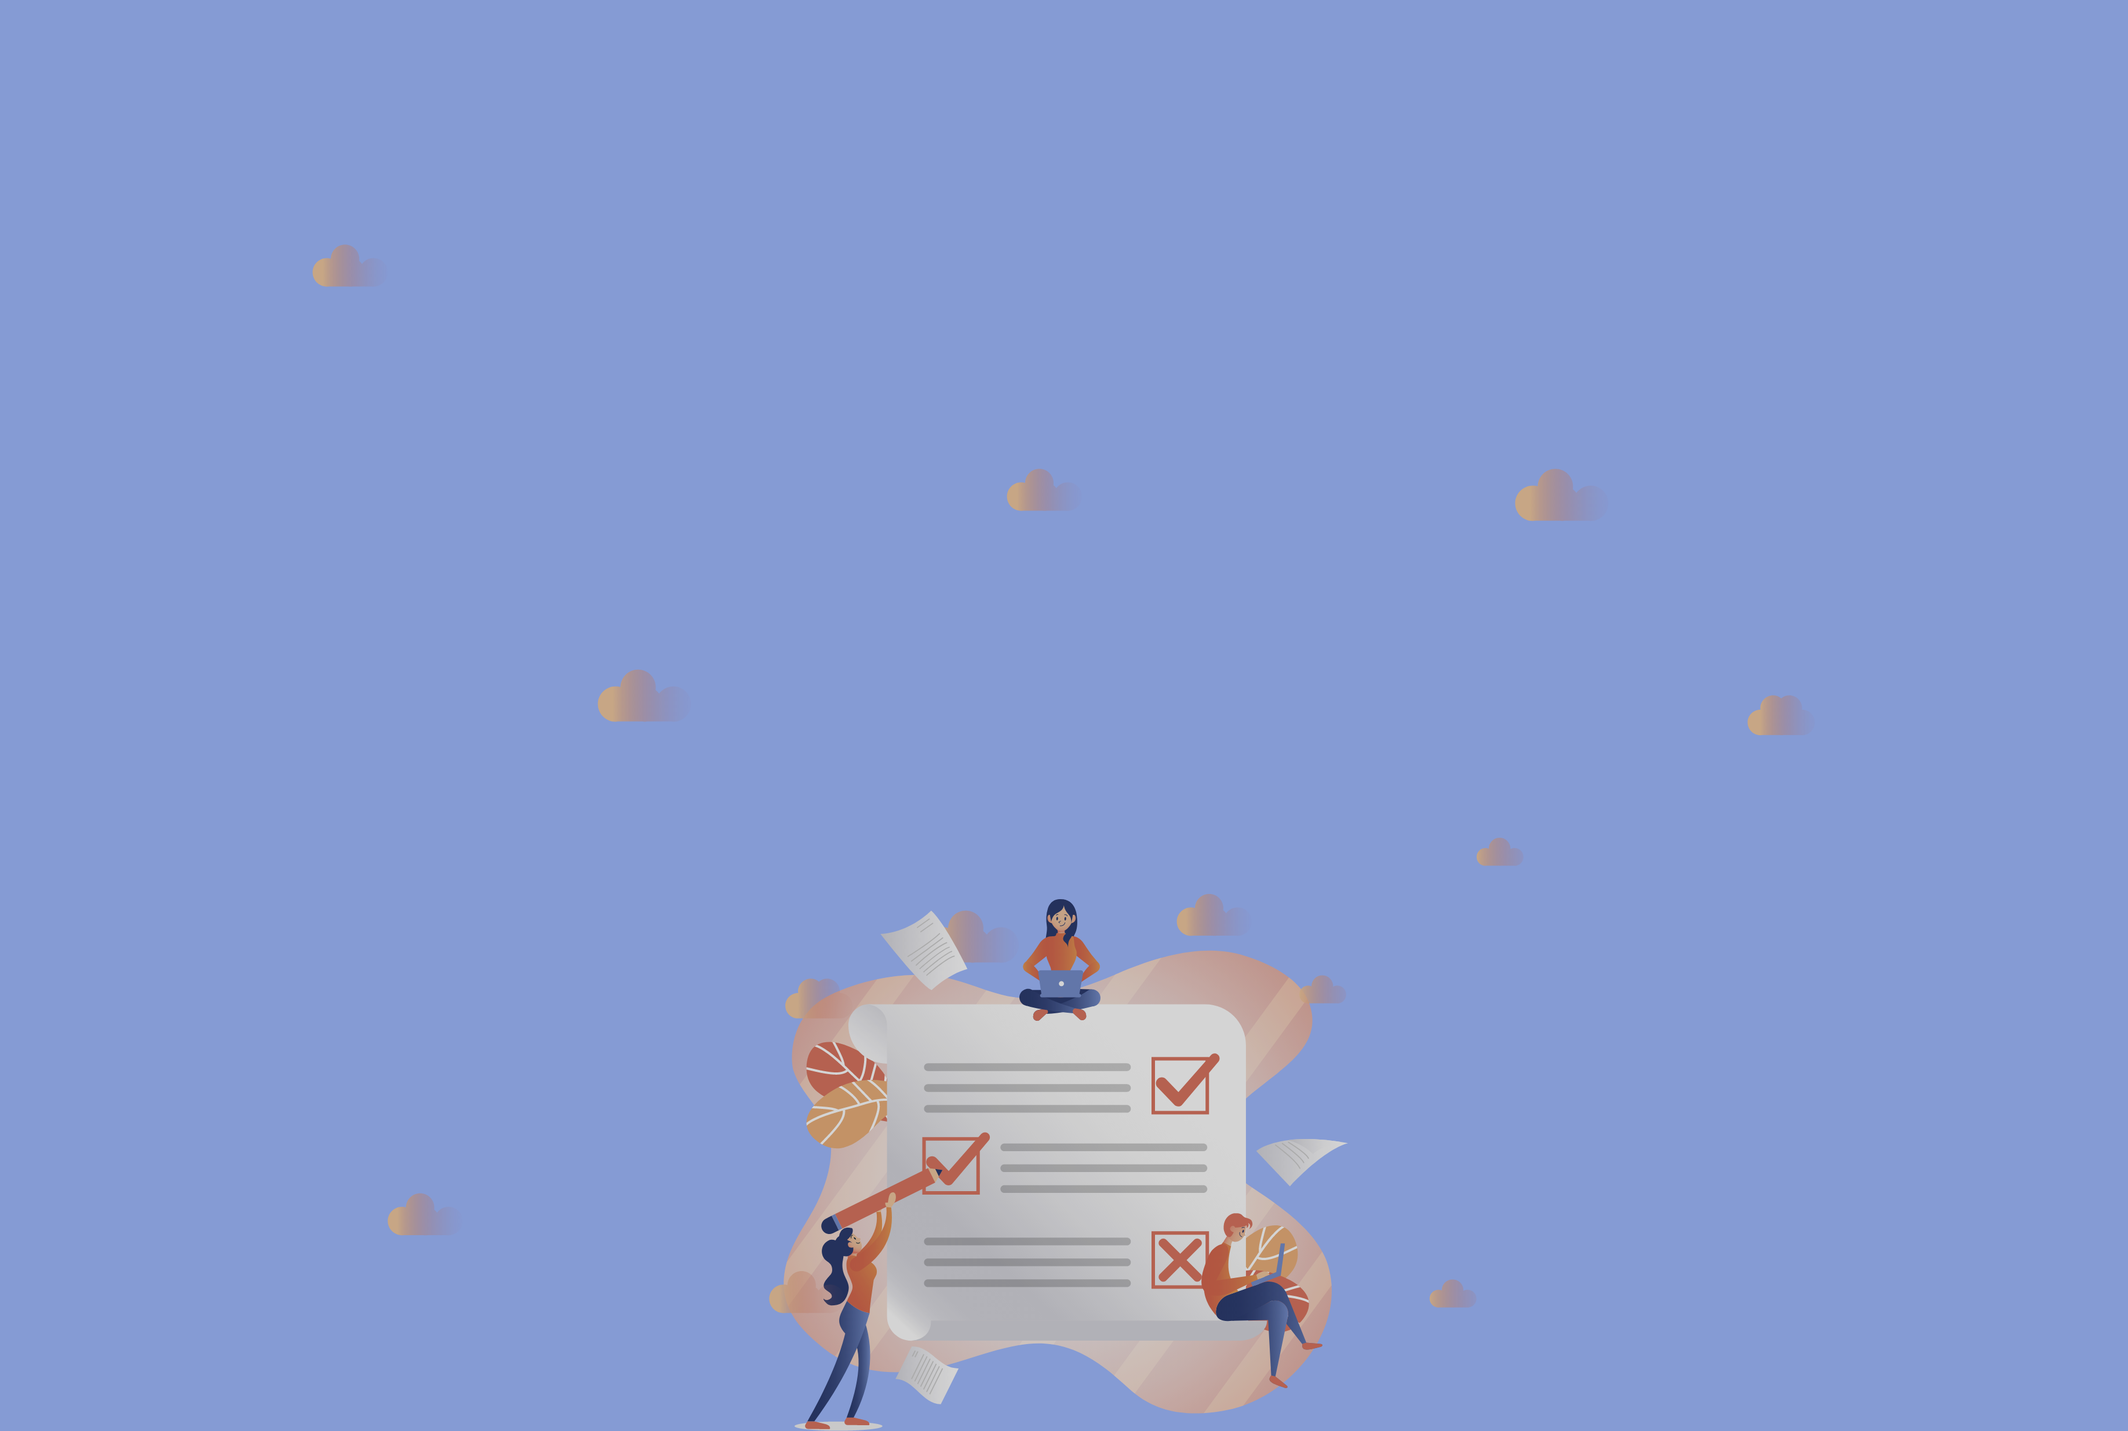
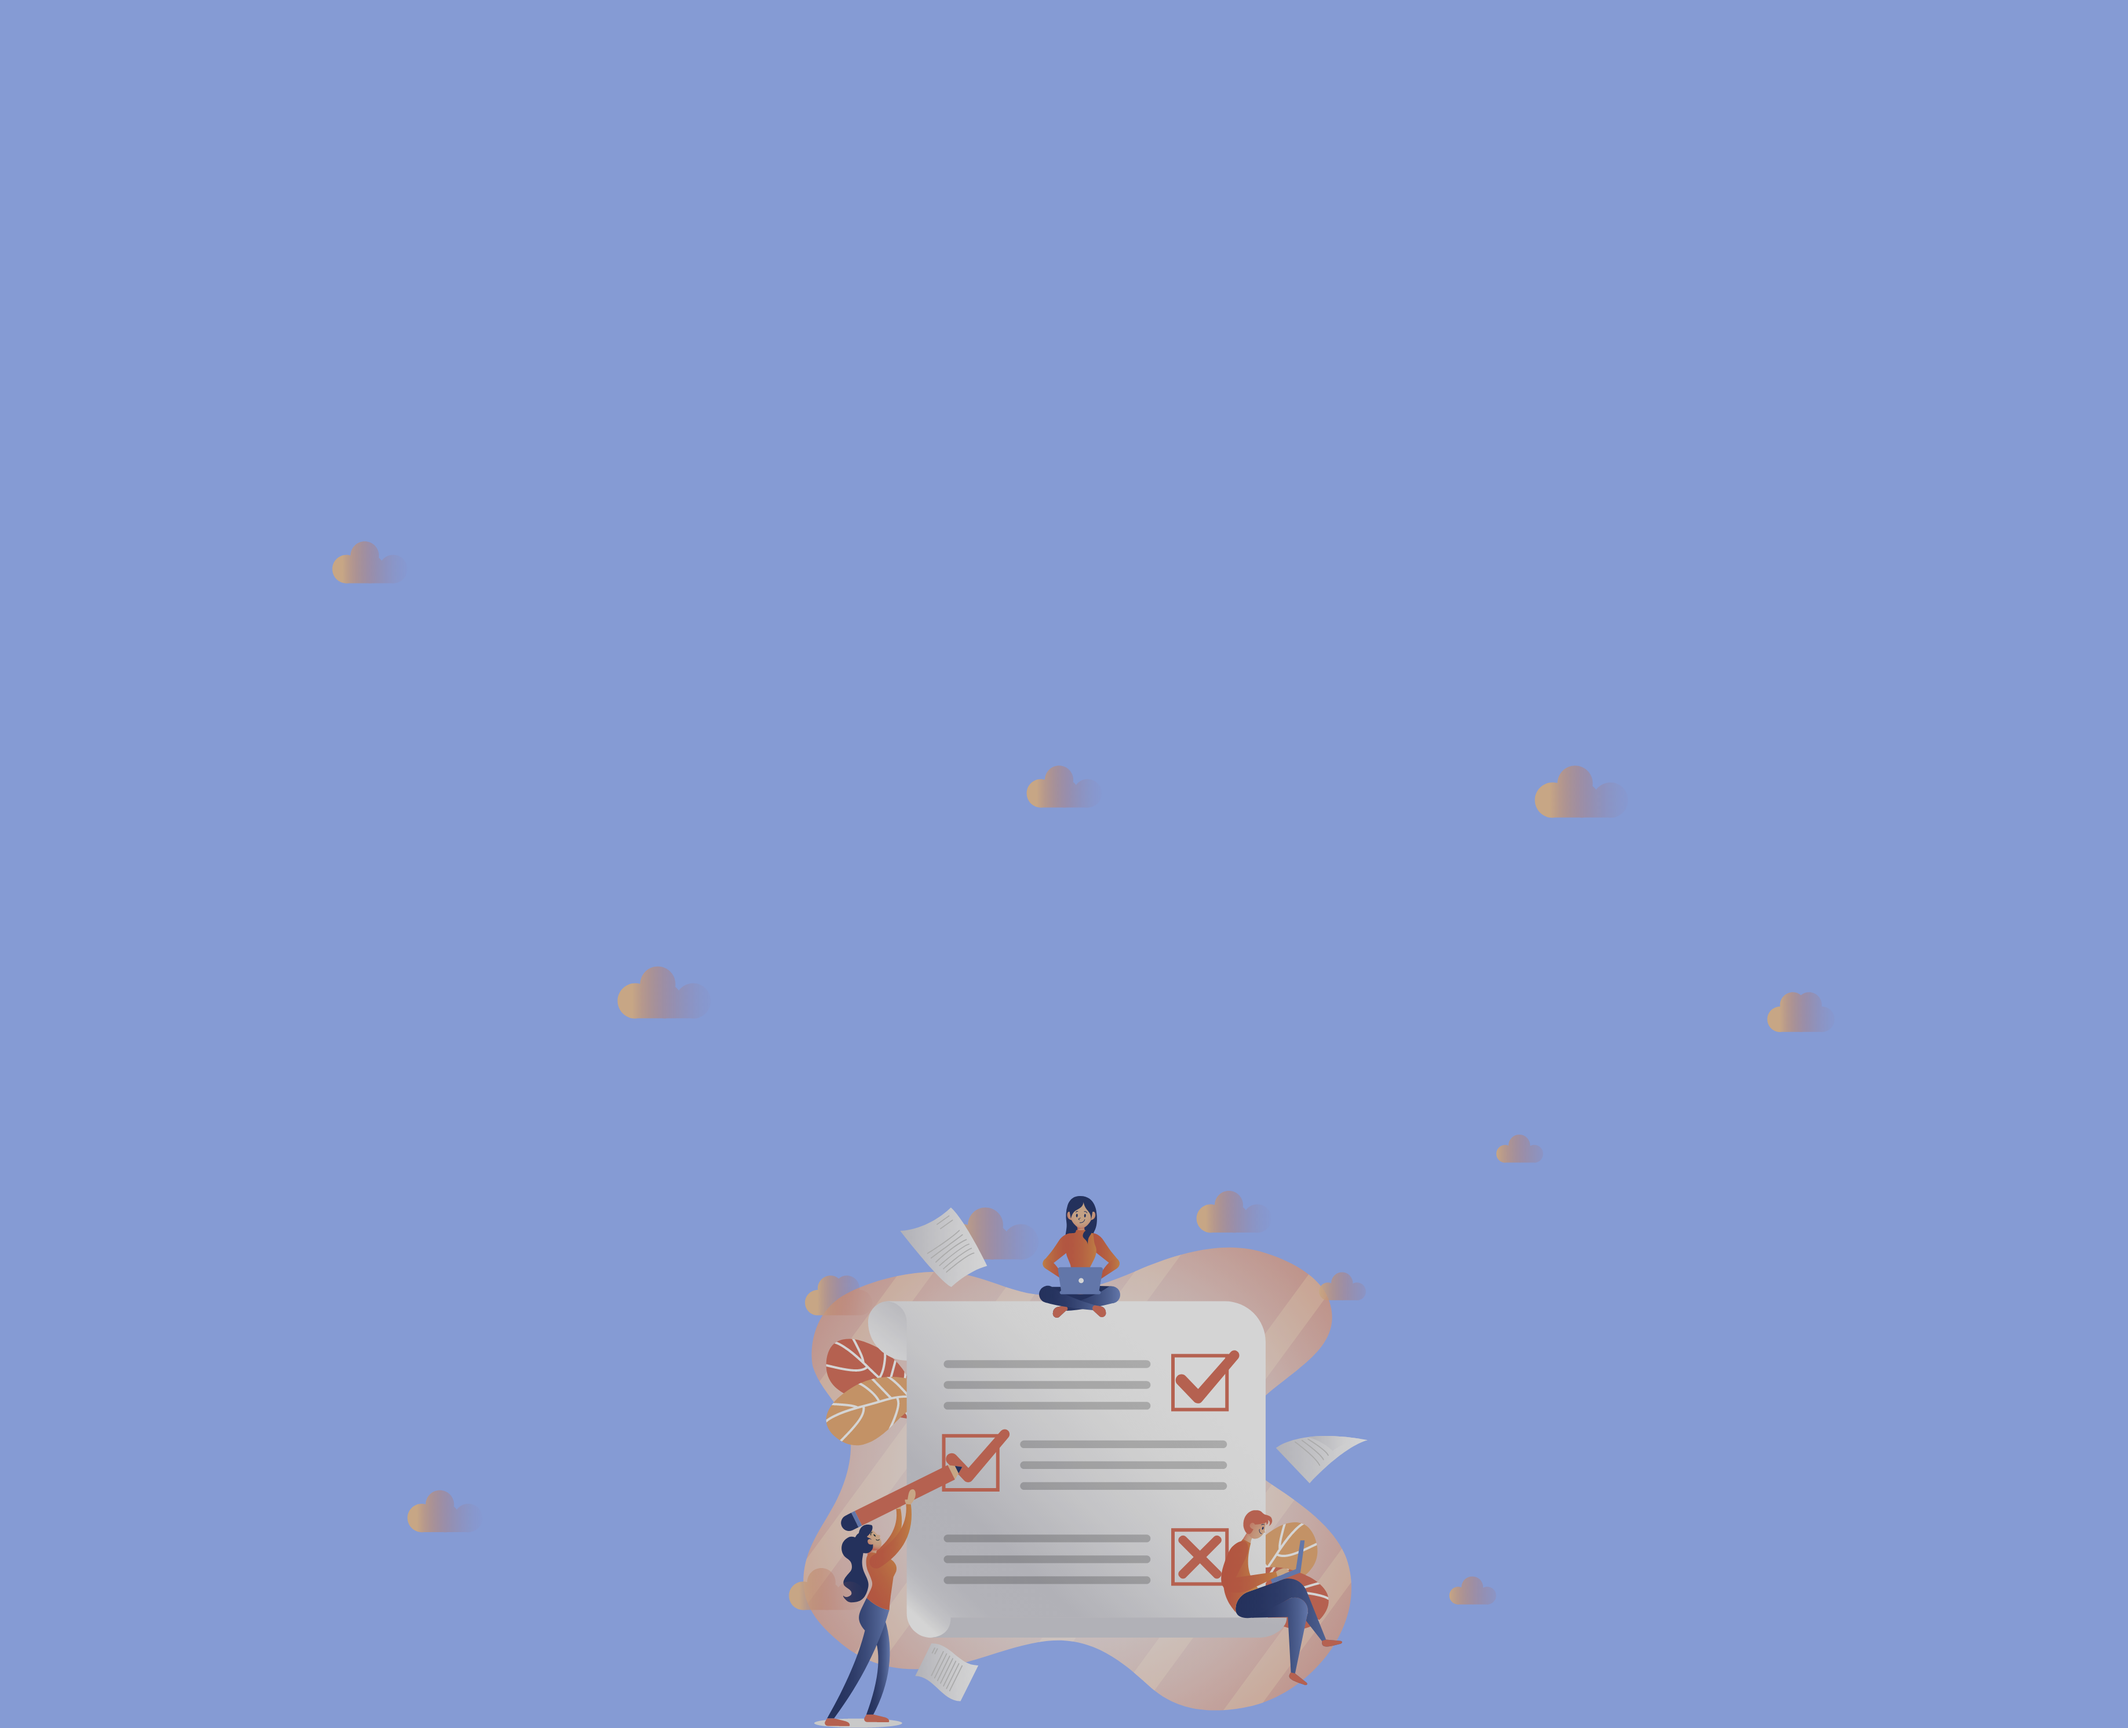
Fix bg verification and button to contact

diff --git a/src/components/Profile.js b/src/components/Profile.js
@@ -68,9 +68,11 @@ const Profile = () => {
   const { user } = useContext(UserContext);
 
   const showBox = () => {
-    updateRecommendationState(
-      Object.assign({}, recommendationState, { name: user._id })
-    );
+    if (user) {
+      updateRecommendationState(
+        Object.assign({}, recommendationState, { name: user._id })
+      );
+    }
     updateBoxRecommendatioState(true);
   };
 
@@ -354,7 +356,9 @@ const Profile = () => {
                         <Col xs={5} md={3} className="py-3 rate-profile">
                           <div className="profile-recommendation ">
                             <p className="text-white h3 titles">{e.username}</p>
-                            <p className="text-white h5 text">{e.details}</p>
+                            <p className="text-white h5 text text-center">
+                              {e.details}
+                            </p>
                             <p className="text-white h6 text text-center">
                               {e.date}
                             </p>
@@ -537,7 +541,7 @@ const Profile = () => {
           {!ownerState && (
             <Col xs={11} className="my-3">
               <Row className="p-3 justify-content-center align-items-center">
-                <Link to="/contact">
+                <Link to={`/contact/${username}`}>
                   <Button variant="dark" size="lg" className="buttonP">
                     Contactar
                   </Button>

diff --git a/src/App.css b/src/App.css
@@ -229,8 +229,9 @@ body {
   background-image: url("/images/verification-bg.png");
   background-size: cover;
   background-position: center;
-  margin-top: 9vh;
-  min-height: 90vh;
+  background-repeat: no-repeat;
+  margin-top: 8.5vh;
+  height: 90vh;
 }
 
 .failed-box {
